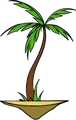
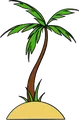
Use ISLAND2 (rounded sand mound) for the game's island
The artist supplied a new island drawing with a rounded mound base instead
of the old flat platform. build-assets.py maps output basenames to source
files, so `island` now builds from ISLAND2.png and the old ISLAND.png is
skipped rather than emitted as an unused island2.webp. Same output
dimensions (39x60 cell), so no HTML change.

Changed region(s): [[0.0, 0.0, 1.0, 1.0], [0.1053, 0.0, 0.1316, 0.025]]

diff --git a/tools/build-assets.py b/tools/build-assets.py
@@ -178,8 +178,17 @@ def main():
     print(f"{'bird':<10}{len(fr):>7}{f'{cw}x{ch}':>12}{f'{cw*len(fr)}x{ch}':>13}{size/1024:>8.1f}K")
 
     # ---- static PNGs ----
-    for f in sorted(x for x in os.listdir(SRC) if x.lower().endswith(".png")):
+    # output basename <- source file. Default is the lower-cased filename; the
+    # game's `island` uses ISLAND2.png (the rounded-mound version), so the old
+    # ISLAND.png is skipped rather than emitted as an unused island.webp.
+    SRC_FOR = {"island": "ISLAND2.png"}
+    SKIP = {"ISLAND.png"}
+    for f in sorted(x for x in os.listdir(SRC) if x.lower().endswith(".png") and x not in SKIP):
         base = f[:-4].lower()
+        if base in SRC_FOR and f != SRC_FOR[base]:
+            continue                      # this base is served by an override file
+        if f in SRC_FOR.values():
+            base = next(b for b, s in SRC_FOR.items() if s == f)
         a = dealpha(Image.open(os.path.join(SRC, f)))
         a = a.crop(a.getchannel("A").getbbox())
         h = CSS_H[base] * DPR